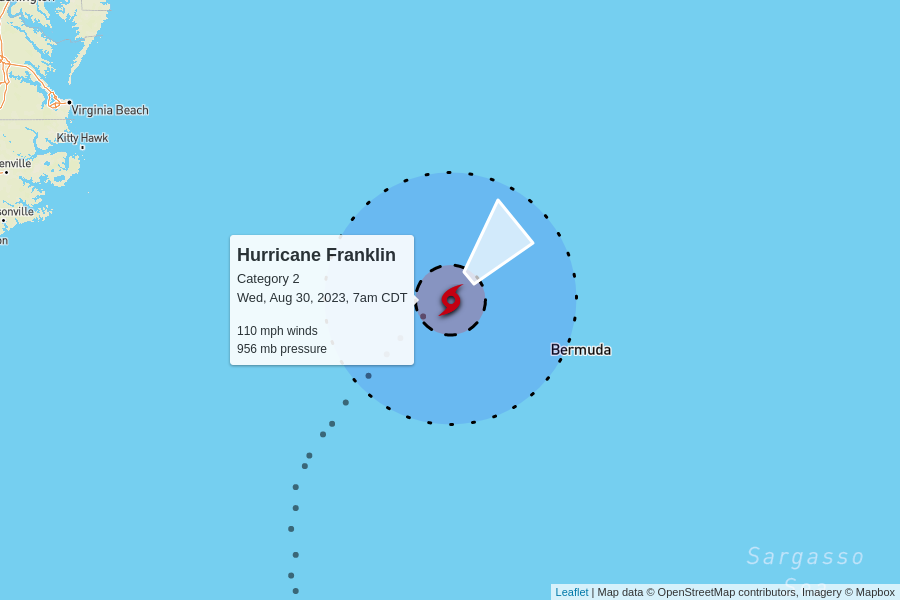
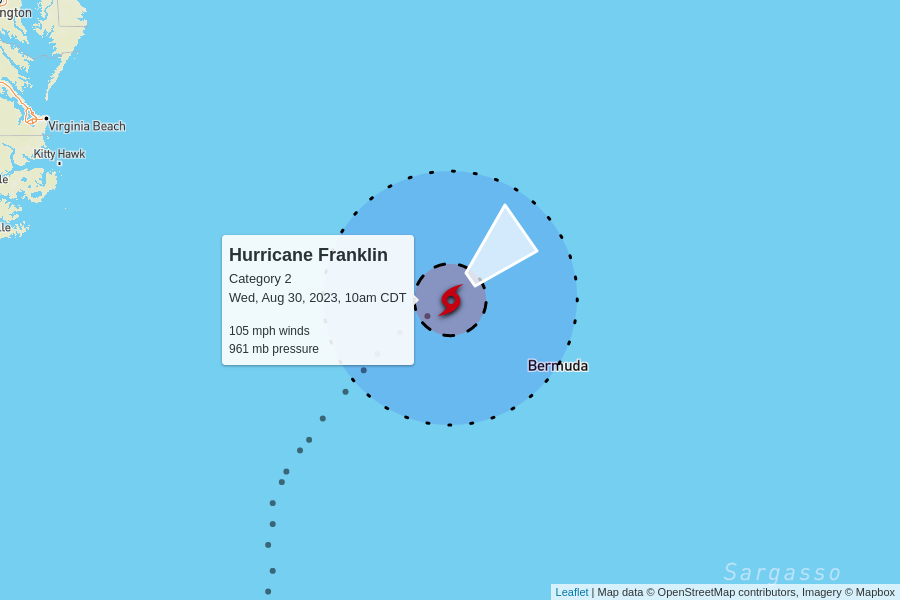
automatic update

diff --git a/docs/index.html b/docs/index.html
@@ -99,8 +99,8 @@
       <tr>
         <td colspan="6" class="storm category-2" >
           <h2>
-            Hurricane Idalia - Category 2
-            <p class="updated">last updated <span data-time>2023-08-30T14:00:00.000Z</span></p>
+            Hurricane Franklin - Category 2
+            <p class="updated">last updated <span data-time>2023-08-30T15:00:00.000Z</span></p>
           </h2>
         </td>
       </tr>
@@ -116,55 +116,11 @@
       <tr>
         <td class="spacer"></td>
         <td>105 mph</td>
-        <td>964 mb</td>
-        <td>
-          18 mph to the north-northeast
-          <br/>
-          <span style="display: inline-block; font-size: 1.5em; transform: rotate(20deg);">↑</span>
-        </td>
-        <td><a href="https://raw.githubusercontent.com/mgwalker/atlantic-hurricanes/main/data/csv/AL102023.csv">AL102023.csv</a></td>
-        <td><a href="https://www.nhc.noaa.gov/archive/2023/IDALIA.shtml?">NHC advisories</a></td>
-      </tr>
-      <tr id="storm_AL102023" >
-        <td class="spacer">
-        <td colspan="5">
-          <figure>
-            <img src="AL102023.png">
-            <figcaption>
-              Map data &copy; <a href="https://www.openstreetmap.org/copyright">OpenStreetMap</a> contributors,
-              Imagery &copy; <a href="https://www.mapbox.com/">Mapbox</a> |
-              <a href="https://www.mapbox.com/map-feedback/" target="_blank">Improve this map</a>
-            </figcaption>
-          </figure>
-        </td>
-      </tr>
-      
-
-      <tr>
-        <td colspan="6" class="storm category-2" >
-          <h2>
-            Hurricane Franklin - Category 2
-            <p class="updated">last updated <span data-time>2023-08-30T12:00:00.000Z</span></p>
-          </h2>
-        </td>
-      </tr>
-      
-      <tr>
-        <th class="spacer"></th>
-        <th>wind speed</th>
-        <th>central pressure</th>
-        <th>movement</th>
-        <th>data (CSV)</th>
-        <th>National Hurricane Center</th>
-      </tr>
-      <tr>
-        <td class="spacer"></td>
-        <td>110 mph</td>
-        <td>956 mb</td>
+        <td>961 mb</td>
         <td>
           13 mph to the northeast
           <br/>
-          <span style="display: inline-block; font-size: 1.5em; transform: rotate(45deg);">↑</span>
+          <span style="display: inline-block; font-size: 1.5em; transform: rotate(50deg);">↑</span>
         </td>
         <td><a href="https://raw.githubusercontent.com/mgwalker/atlantic-hurricanes/main/data/csv/AL082023.csv">AL082023.csv</a></td>
         <td><a href="https://www.nhc.noaa.gov/archive/2023/FRANKLIN.shtml?">NHC advisories</a></td>
@@ -185,10 +141,54 @@
       
 
       <tr>
+        <td colspan="6" class="storm category-1" >
+          <h2>
+            Hurricane Idalia - Category 1
+            <p class="updated">last updated <span data-time>2023-08-30T15:00:00.000Z</span></p>
+          </h2>
+        </td>
+      </tr>
+      
+      <tr>
+        <th class="spacer"></th>
+        <th>wind speed</th>
+        <th>central pressure</th>
+        <th>movement</th>
+        <th>data (CSV)</th>
+        <th>National Hurricane Center</th>
+      </tr>
+      <tr>
+        <td class="spacer"></td>
+        <td>90 mph</td>
+        <td>971 mb</td>
+        <td>
+          20 mph to the north-northeast
+          <br/>
+          <span style="display: inline-block; font-size: 1.5em; transform: rotate(30deg);">↑</span>
+        </td>
+        <td><a href="https://raw.githubusercontent.com/mgwalker/atlantic-hurricanes/main/data/csv/AL102023.csv">AL102023.csv</a></td>
+        <td><a href="https://www.nhc.noaa.gov/archive/2023/IDALIA.shtml?">NHC advisories</a></td>
+      </tr>
+      <tr id="storm_AL102023" >
+        <td class="spacer">
+        <td colspan="5">
+          <figure>
+            <img src="AL102023.png">
+            <figcaption>
+              Map data &copy; <a href="https://www.openstreetmap.org/copyright">OpenStreetMap</a> contributors,
+              Imagery &copy; <a href="https://www.mapbox.com/">Mapbox</a> |
+              <a href="https://www.mapbox.com/map-feedback/" target="_blank">Improve this map</a>
+            </figcaption>
+          </figure>
+        </td>
+      </tr>
+      
+
+      <tr>
         <td colspan="6" class="storm category-0" >
           <h2>
             Tropical Depression Eleven
-            <p class="updated">last updated <span data-time>2023-08-30T09:00:00.000Z</span></p>
+            <p class="updated">last updated <span data-time>2023-08-30T15:00:00.000Z</span></p>
           </h2>
         </td>
       </tr>
@@ -206,9 +206,9 @@
         <td>35 mph</td>
         <td>1014 mb</td>
         <td>
-          1 mph to the east
+          2 mph to the north
           <br/>
-          <span style="display: inline-block; font-size: 1.5em; transform: rotate(90deg);">↑</span>
+          <span style="display: inline-block; font-size: 1.5em; transform: rotate(360deg);">↑</span>
         </td>
         <td><a href="https://raw.githubusercontent.com/mgwalker/atlantic-hurricanes/main/data/csv/AL112023.csv">AL112023.csv</a></td>
         <td><a href="https://www.nhc.noaa.gov/archive/2023/ELEVEN.shtml?">NHC advisories</a></td>
